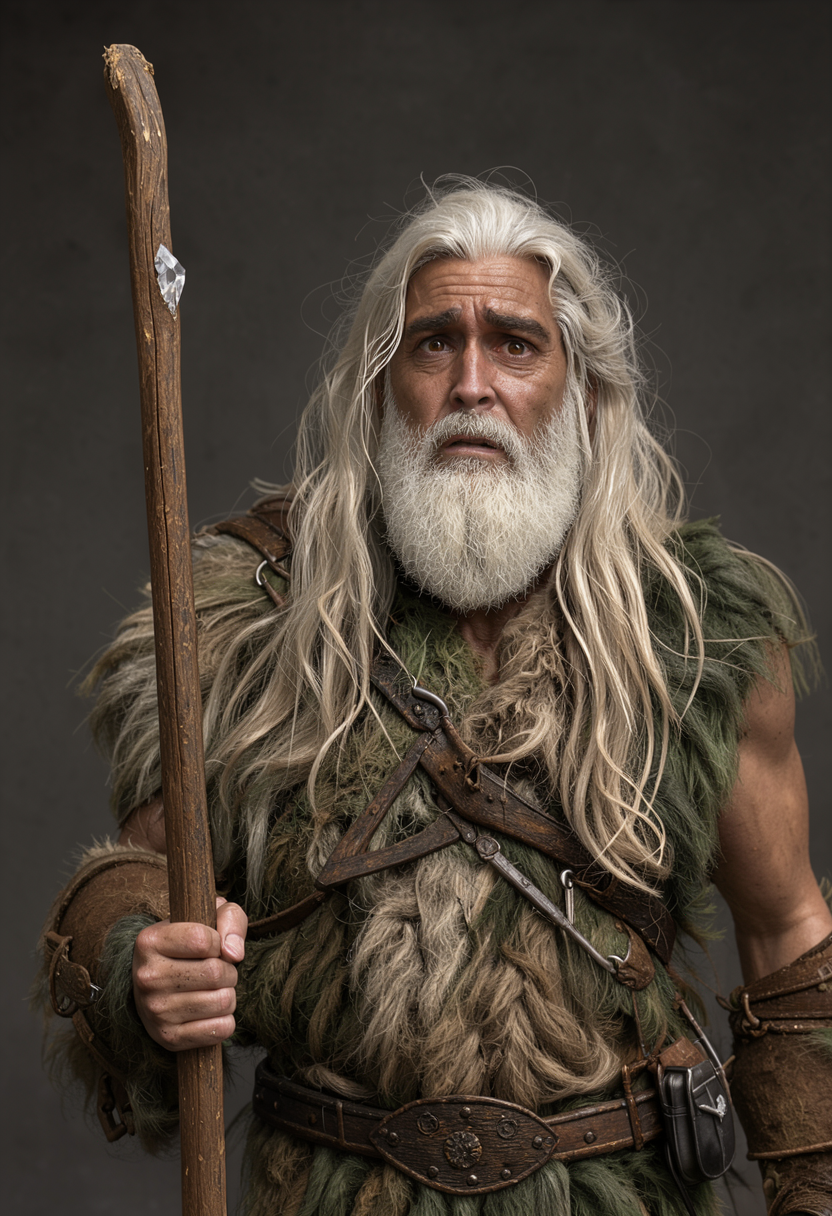
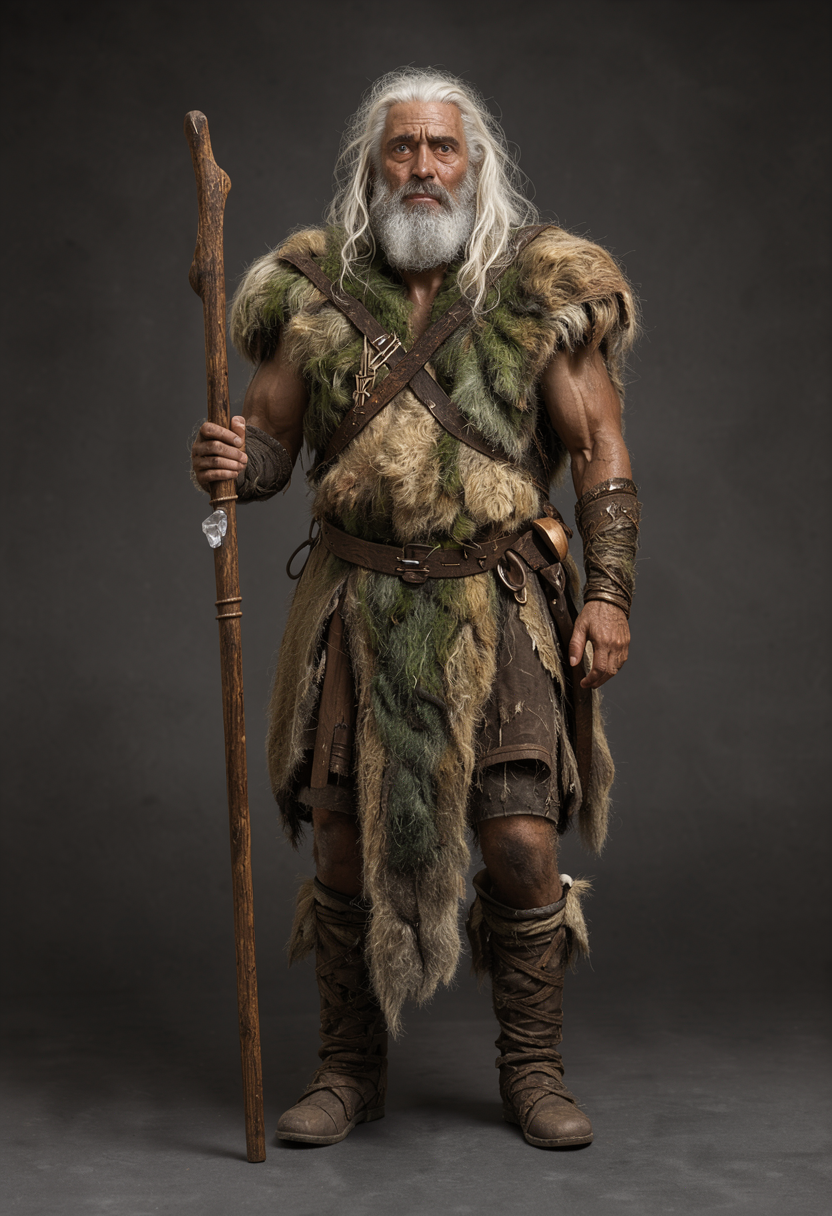
two-ref canon: full-body references plus closeups for main 7, bible and docs updated

diff --git a/character-bible/bible.md b/character-bible/bible.md
@@ -13,14 +13,14 @@ Global suffix (append to EVERY prompt):
 
 ### Shade — Male Halfling Rogue (St3v3D/David). Young adult halfling man, NOT child, NOT elderly.
 `young adult halfling man, mid-20s, mature adult face, lean build, messy shaggy dark brown hair falling over the sides of his head, light stubble, no beard, warm brown eyes, subtle sly closed-mouth expression, worn dark linen shirt with rolled sleeves, scuffed brown leather vest, belt dagger at hips, warm tan skin with a ruddy cast, long sideburns, small adult stature about three feet tall, full-size adult human features scaled down uniformly, exactly the same head-to-body proportions as a full-size grown man, he is a full-grown man who happens to stand three feet tall, enlarged to six feet he would be indistinguishable from an ordinary human man, small adult head, thick shaggy hair covering the sides of his head completely, small skull structure, sleek adult facial proportions, exactly two arms`
-Approved identity ref (2026-11-02, Flux3 Klein): `character-bible/approved_shade_reference.png` — shade-lab batch-14 keeper q13 (seed 1395696223); copy this face for any new Shade portrait. Lab rules that produced it: name the species for scale, never name the ears (see `character-bible/sheet-test/shade-lab/README.md`).
+Approved identity ref (2026-11-02, Flux3 Klein): `character-bible/approved_shade_reference.png` — shade-lab batch-14 keeper q13 (seed 1395696223); copy this face for any new Shade portrait. Lab rules that produced it: name the species for scale, never name the ears (see `character-bible/sheet-test/shade-lab/README.md`). Face closeup (2026-11-04): `character-bible/approved_shade_closeup.png` (seed 1395696224) — the face canon for masked face passes.
 NEVER: child, boy, teen, elderly, gray hair, white hair, beard, wrinkles, pointed ears, elf ears, large ears, protruding ears, hobbit feet, bare feet, blond hair, big friendly smile by default.
 Default expression: lips sealed closed with a barely perceptible asymmetric lift on one side, sly knowing gleam in his eyes — subtle mischief, never a full smile or grin. Keep-to-himself thief, not the outgoing one.
 Guild mark: geometric diamond tattoo (gallery/Objects/The_Tattoo.png) on forearm — include only when plot-relevant.
 
 ### Rocketcandy — Male Human Paladin (Andrew). Lost nobility of Corlinn Hill (Neverwinter county), raised in Waterdeep, inherits only a title.
 `adult male human paladin, short brown hair light stubble, shining plate armor with gold phoenix/eagle crest on chest, red cape, exactly two arms, holding a heavy battle-worn steel battleaxe with a plain wide scarred blade, no gaudy ornamentation`
-Approved identity ref (2026-11-02, Flux3 Klein): `character-bible/approved_rocketcandy_reference.png` — copy this face; face, expression, and axe approved in the Flux3 v2 portrait.
+Approved identity ref (2026-11-04, Flux3 Klein): `character-bible/approved_rocketcandy_reference.png` — full-body companion from the original seed (batch38); face, expression, axe and full kit. Face closeup: `character-bible/approved_rocketcandy_closeup.png` (the former waist-up reference) — the face canon for masked face passes.
 Refs: gallery/Scenes/City_Guards.png is CORRUPT guard look-alike — do NOT copy its helm/plume for Rocketcandy except crest shape. Gallery/Objects/Rocketcandy_Plot_Armor.png = his armor ref — use it.
 NEVER: extra arms, female, modern clothes, helm, plume, gaudy gold-decorated battleaxe.
 Weapon: +3 battleaxe (signature — sheet + transcript axe-to-face). Faith: Bahamut. Oath of the Open Sea. Props: signet ring, holy symbol.
@@ -28,7 +28,7 @@ Default expression: confident composed noble bearing — calm, lawful-good certa
 
 ### Keechwah — Male Tiefling Warlock (Aaron). MALE, no wings.
 `adult male tiefling warlock, deep red skin, long curly black hair, goatee, large curved horns, glowing purple eyes, male facial features, dark blue/gold robes, gold jewelry, NO wings`
-Approved identity ref (2026-11-02, Flux3 Klein): `character-bible/approved_keechwah_reference.png` — copy this face; face, expression, and orb approved in the Flux3 v1 portrait. Eyes are solid matte purple across the full sclera — full-purple sclera, no white, no pupils, no glow, no shine.
+Approved identity ref (2026-11-04, Flux3 Klein): `character-bible/approved_keechwah_reference.png` — full-body companion from the original seed (batch38); face, expression, orb and robes. Face closeup: `character-bible/approved_keechwah_closeup.png` (the former waist-up reference) — the face canon for masked face/eye passes. Eyes are solid matte purple across the full sclera — full-purple sclera, no white, no pupils, no glow, no shine.
 Refs: gallery/Scenes/Keechwah_and_Lilly_bonding.png (face, hair, jewelry locked), Verruth_and_Keechwah_make_a_deal.png (blue-hair variant = younger? use black-hair as canon unless flashback).
 NEVER: female, wings, hooves, female chest, duplicate Keechwahs. Keechwah has NO wings — Verruth (below) HAS wings, do not mix.
 Expression: loves a good mystery, convinced people are trying to steal his secrets. Props when plot-relevant: orb arcane focus, lute (Battle of the Bards), Book of Shadows.
@@ -44,21 +44,21 @@ Note: "Bearnuts" is James's Discord handle, never a character name — the S3 mi
 
 ### Chip — Male Human Druid (Josh)
 `adult male human druid, brown skin, wild long white hair and white beard, brown eyes, green/brown fur garb, holding a straight wooden quarterstaff with a small crystal slotted into it (HE holds it, never Vadania)`
-Approved identity ref (2026-11-02, Flux3 Klein): `character-bible/approved_chip_reference.png` — copy this face; face, expression, and staff approved in the Flux3 v2 portrait.
+Approved identity ref (2026-11-04, Flux3 Klein): `character-bible/approved_chip_reference.png` — full-body companion from the original seed (batch38); face, expression, staff and full garb. Face closeup: `character-bible/approved_chip_closeup.png` (the former waist-up reference) — the face canon for masked face passes.
 NEVER: give staff to Vadania, merge with Vadania, bat on shoulder (Celeste rarely pictured), brown hair or beard (canon is white per sheet), crooked or crook-topped staff.
 Expression: awkward observer — blurts insults without thinking, last to speak. Prop: his quarterstaff has the crystal Star Map slotted into it (Circle of the Stars).
 Default expression: awkward and earnest, slightly bewildered — quiet observer, never severe or formidable.
 
 ### Vadania Amakiir — Male Wood Elf Ranger (Derek)
 `adult male wood elf ranger, long brown hair, green eyes, pointed ears, masculine jaw stubble, green cloak, longbow on back, short swords at hips, scar on shoulder`
-Approved identity ref (2026-11-02, Flux3 Klein): `character-bible/approved_vadania_reference.png` — copy this face; face, expression, and gear approved in the Flux3 v1 portrait.
+Approved identity ref (2026-11-04, Flux3 Klein): `character-bible/approved_vadania_reference.png` — full-body companion from the original seed (batch38); face, expression, bow, swords and full kit. Face closeup: `character-bible/approved_vadania_closeup.png` (the former waist-up reference) — the face canon for masked face passes.
 NEVER: female, dress, blonde hair (canon is brown per sheet — user decision 2026-11-01), long blonde woman in green (that is a misrender — re-roll), duplicate Vadania as barmaid.
 Expression: action over theory, blunt and sincere, follows through. Weapon: Monster Hunter's Longbow +1 (ornate named longbow) + twin shortswords.
 Default expression: blunt and direct — a man of action, steady gaze, never soft or smiling.
 
 ### Lilly — Adult woman early 20s (NOT a child)
 `adult young woman early 20s, curly voluminous red hair, freckles, white ruffled shirt, red corset laced gold, cream skirt, brown boots, thigh dagger + rapier with mother-of-pearl handle`
-Approved identity ref (2026-11-02, Flux3 Klein): `character-bible/approved_lilly_reference.png` — copy this face; adult likeness approved in the Flux3 v1 portrait.
+Approved identity ref (2026-11-04, Flux3 Klein): `character-bible/approved_lilly_reference.png` — full-body companion from the original seed (batch38 r3, pleated short skirt fix); adult likeness, corset, rapier and full kit. Face closeup: `character-bible/approved_lilly_closeup.png` (the former waist-up reference) — the face canon for masked face passes.
 Refs: gallery/NPCs/Lilly.png (LOCKED), Keechwah_and_Lilly_bonding.png. NEVER: child, little girl, schoolgirl.
 Default expression: warm and confident — friendly, self-assured young woman.
 Behavior (transcript canon): sheltered manor upbringing — wide-eyed wonder at everything new, physical exuberance (hugs, skipping, door-crashing enthusiasm), blurts endless questions, brave resolve underneath. As Filvenar: regal pose stretched over giddy core — the mask visibly slips when excited.

diff --git a/scene-director/director.md b/scene-director/director.md
@@ -20,8 +20,8 @@ Score each 10-min transcript chunk 0-3 on funny/epic/fail/plot. Keep chunks scor
 ## Prompt assembly
 `[global style] + [bible block for each character present] + [action] + [location] + [composition] + [no duplicates, exactly two arms, adult faces]`
 
-## Identity rule (standing — validated 2026-11-02 on Shade, portrait→docks)
-Panels condition on approved portraits, not prose alone. Base graph: `workflows/base_flux3_multiref.json` (Flux3 Klein rig + `ReferenceMultiLatent`, one `LoadImage` slot, prompt sentinel `{{PROMPT}}`). Per panel: copy the base, point `LoadImage` at each in-frame character's approved portrait (add `LoadImage` nodes + `images.imageN` links for casts >1), replace the sentinel with the assembled prompt, keep rig byte-identical. Text-only `base_flux3.json` remains for no-face detail shots (tattoos, signage) and creatures with no portrait. Validated: single-ref face carry confirmed; multi-ref (>1 portrait) still unproven — verify likeness per face before approving any multi-ref panel.
+## Identity rule (standing — two-ref scheme since 2026-11-04)
+Panels condition on approved portraits, not prose alone. Each main character has TWO refs: `approved_<slug>_reference.png` (full-body, for scene passes) and `approved_<slug>_closeup.png` (face canon, for masked face passes). Base graph: `workflows/base_flux3_multiref.json` (Flux3 Klein rig + `ReferenceMultiLatent`, one `LoadImage` slot, prompt sentinel `{{PROMPT}}`). Per panel: copy the base, point `LoadImage` at each in-frame character's approved FULL-BODY portrait (add `LoadImage` nodes + `images.imageN` links for casts >1), replace the sentinel with the assembled prompt, keep rig byte-identical. Text-only `base_flux3.json` remains for no-face detail shots (tattoos, signage) and creatures with no portrait. Validated: multi-ref proven across lineup-lab batches 33–40 (up to 11 refs in one pass; ~6 for quality); finish every panel per PIPELINE.md recipe (scene → 7-face-style masked ref pass → FaceDetailer 0.35) — see `sessions/session01/v3/` for the worked example.
 
 Always append character-bible anti-conflation footer.
 Word colors onto the right noun: `deep red skin, black hair`, never `red tiefling` — a loose color migrates (red skin became red hair in P2.1 v2-v3).

diff --git a/PROMPT-RULES.md b/PROMPT-RULES.md
@@ -15,10 +15,12 @@ not by theory. Full records live in `character-bible/sheet-test/`.
    ("enlarged to six feet he would be indistinguishable from an ordinary
    human man") moved age/size where ratios (`one-seventh`), adjectives,
    and placement never did (batches 4–5).
-3. **Bans are dead weight, not poison.** Batch 7 vs 8 (same seeds, bans
+3. **Bans are dead weight, not poison — with one flag.** Batch 7 vs 8 (same seeds, bans
    present vs stripped): no worse, no better. Prompt space spent on
    `NOT`/`no` is better spent on positive anatomy. Keep bans out of new
-   wording; leave existing locked-chunk bans alone unless testing them.
+   wording; leave existing locked-chunk bans alone unless testing them. FLAG 2026-11-04 (single-seed, Gulgrim n2r2 vs nobans):
+   stripping `no oversized head / no large head / no bobblehead` visibly shrank the head on the same seed — bans may actively
+   hurt on head-size wording, not just waste space. Needs controls before it touches this rule.
 4. **Official species canon can feed the prior.** DDB halfling text
    ("diminutive", "appear relatively harmless") pushes the baby schema —
    quote canon selectively, never wholesale.

diff --git a/character-bible/lineup-lab/batches/batch38/BATCH38-NOTES.md b/character-bible/lineup-lab/batches/batch38/BATCH38-NOTES.md
@@ -4,7 +4,7 @@
 All approved refs carry embedded ComfyUI prompts+seeds. Companions built from each ref's own graph + seed, framing swapped:
 - Full-bodies from waist-up seeds (1857761984156622644): vadania, chip, rocketcandy, keechwah, lilly (r3 pleated skirt fix approved)
 - Closeups from full-body seeds: gulgrim (superseded by pivot below), shade r3 (approved, sly closed-mouth)
-- Naming (pending user approval to execute): current waist-ups -> approved_<slug>_closeup.png, new full-bodies take approved_<slug>_reference.png. NOT DONE YET.
+- Naming (executed 2026-11-04): former waist-ups are now `approved_<slug>_closeup.png`, new full-bodies took the `approved_<slug>_reference.png` names (vadania, chip, rocketcandy, keechwah, lilly r3). Shade kept `_reference` (already full-body) and gained `_closeup` (r3). Bible + ComfyUI inputs updated, SHA-verified, committed.
 
 ## Gulgrim pivot (James): bald/white -> hairy black helmet dwarf
 Seeds: 777001 (original) + fresh 6472508315 / 7976038896 / 8342583591 / 1490431410 / 4620677048.

diff --git a/character-bible/lineup-lab/batches/batch40/BATCH40-NOTES.md b/character-bible/lineup-lab/batches/batch40/BATCH40-NOTES.md
@@ -1,0 +1,9 @@
+# Batch 40 — 4 processes x 5 seeds (20 images + 5 boards)
+
+Question: which finish wins across seeds — order (ref-pass vs detailer first) x strength (detailer 0.2 vs 0.35)?
+- P1: 7-face on raw + detailer 0.2. P2: detailer 0.35 + 7-face. P3: 7-face on raw + detailer 0.35. P4: detailer 0.2 + 7-face.
+- Seeds: 3596691034, 7169963536, 2150162665, 6470941741, 7505091016. Same scene prompt/refs, landscape decoupled latent.
+- Face boxes re-measured per seed (faceband strips); seed 7505091016 rendered Lilly/Keechwah swapped — order lists adjusted per seed.
+- Per-seed boards: compare_<seed>.png (rows P1/P2/P3/P4).
+- User verdict: P3 wins 3/5 clear + 2 close-seconds (7505091016 went P1, 7169963536 went P2). Canonical finish: scene -> 7-face one-pass on raw -> FaceDetailer 0.35.
+- All finals: b40_<seed>_{scene,d35,d2,fraw,p1,p2,p3,p4}.png. Masks: C:/DEV/ComfyUI/input/b40_<seed>_mask_<slug>.png.

diff --git a/sessions/session01/v3/V3-NOTES.md b/sessions/session01/v3/V3-NOTES.md
@@ -1,0 +1,8 @@
+# Session 1 v3 — locked finish on v2 scenes/seeds
+
+Same three scenes, same seed 610933, new finishing process (scene -> masked closeup ref passes -> FaceDetailer 0.35).
+- v3_s1p11_3.png (p11 tavern): 6 faces refined; Gulgrim retro-converted bald->hairy canon in two extra passes (helmet at denoise 0.7, beard blackened with enlarged mask at 0.6). Lesson: 0.5 preserves layout (faces), structural canon changes need 0.6-0.7 + full-feature masks.
+- v3_s1p32.png (p32 street): 5 hero faces refined; guards unmasked/untouched.
+- v3_s1p43.png (p43 store): Chip + Roland refined; owlbear untouched.
+- Compare vs v2b: sessions/session01/v2/img/s1p{11,32,43}b.png. User verdict: v3 better.
+- Workflows: v3_<panel>_faces.json (N-branch one-pass) + v3_<panel>_detail.json.

diff --git a/README.md b/README.md
@@ -6,7 +6,7 @@ Base workflow: workflows/base_flux3.json — Flux3 Image Klein text-to-image 134
 1. **Character bible** — `character-bible/bible.md` (LOCKED, update only with approval)
 2. **Scene director** — `scene-director/director.md` + `sessions/<id>/plan.json`
 3. **Flux 3 generation** — `generate/` + `workflows/` (pinned JSON, seed log)
-4. **Refinement** — re-roll bad limbs/duplicates, face detail pass (manual for v1)
+4. **Refinement** — re-roll bad limbs/duplicates, then the locked finish: masked closeup ref pass + FaceDetailer 0.35 (see `PIPELINE.md` recipe; worked example in `sessions/session01/v3/`)
 5. **Comic production** — `comics/<id>.html` multipanel, narration + transcript quotes
 
 ## Quickstart (manual v1, what we did for S1)
